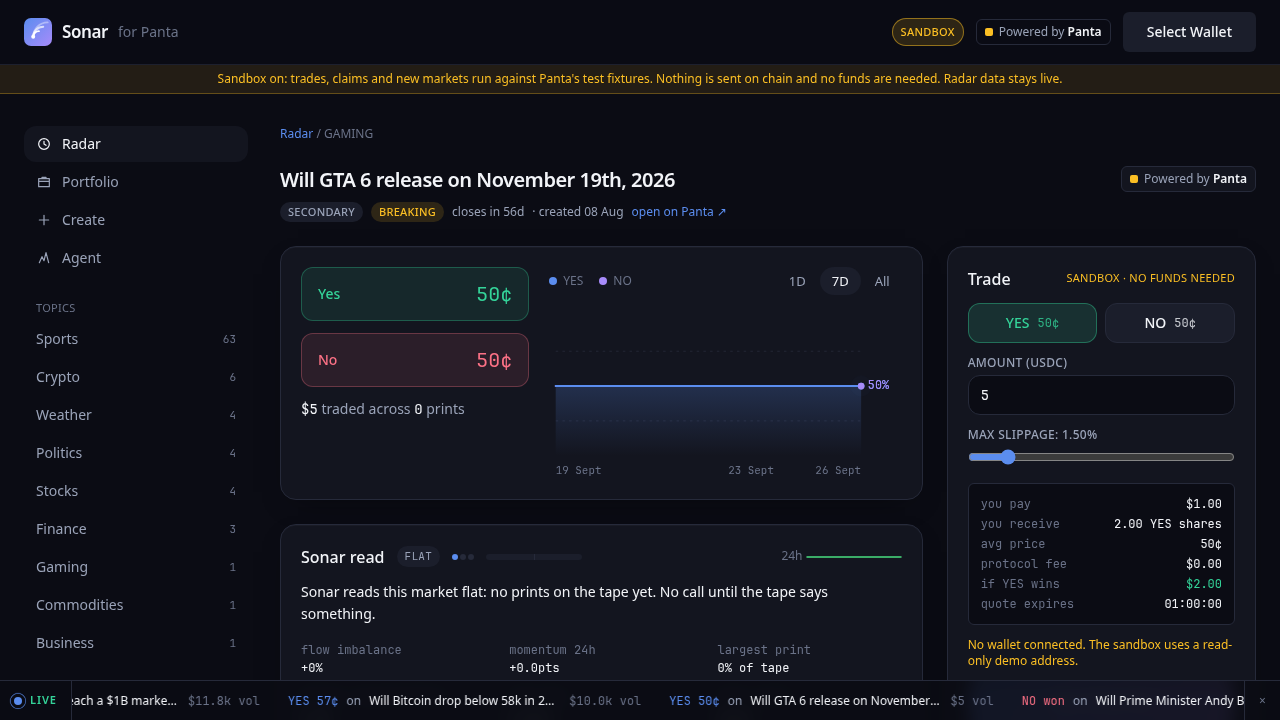
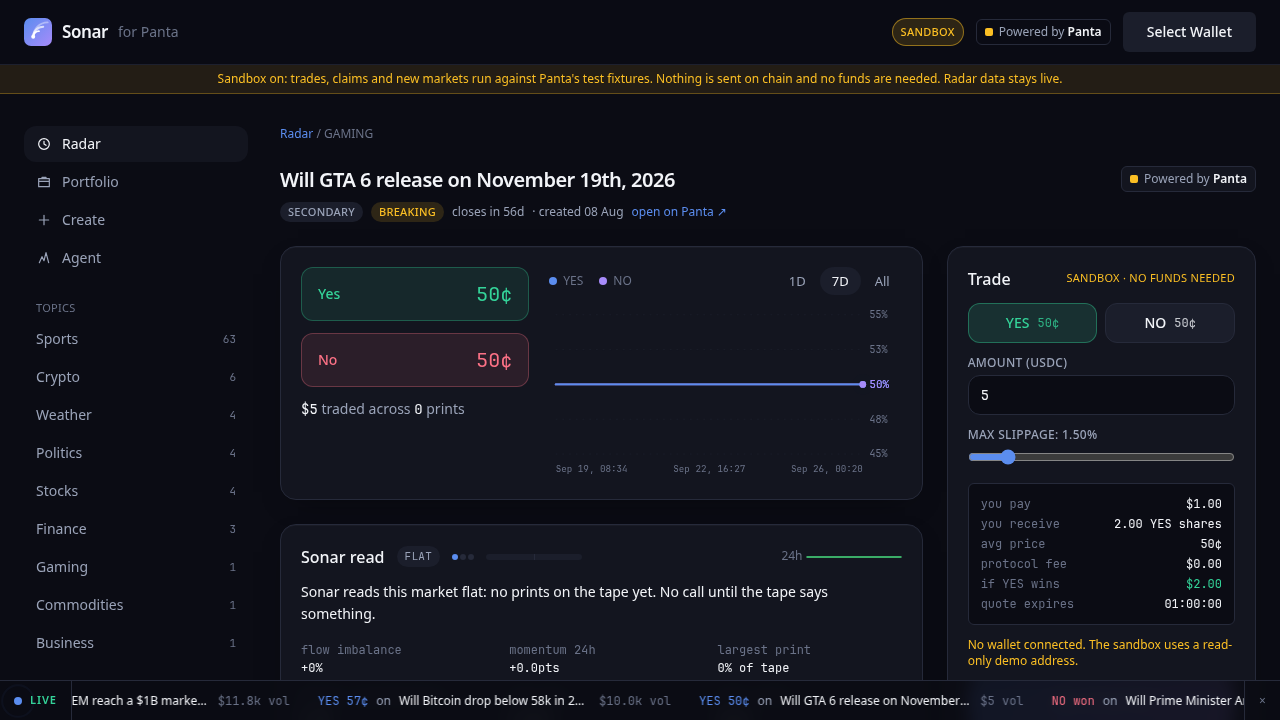
Panta-style chart, a Nigeria desk on the Radar, and feedback item 16
Chart: curved lines through the snapshots, a y range that hugs the data
with Panta-style percentage labels on the right, darker dashed guides,
dated x labels at the ends and the middle, and tick labels that step
aside for the end-point labels.

Radar: a Nigeria desk card that lists every market about Nigeria the API
exposes (found by the words a Nigerian would search for), showing how
resolved ones settled, and pointing to Create when there is nothing open.

The partner API turns out not to list P2P or region-tagged markets, and
ignores region= and unknown categories; recorded as feedback item 16 and
the category fan-out kept to the nine that return rows.

diff --git a/src/components/PriceChart.tsx b/src/components/PriceChart.tsx
@@ -7,7 +7,7 @@ import type { Snapshot } from '@/lib/types';
 export function PriceChart({ snaps, height = 220, className = '', live = false }: { snaps: Snapshot[]; height?: number; className?: string; live?: boolean }) {
   const pts = snaps.filter((s) => s.yesPrice !== null).map((s) => ({ t: s.ts, y: s.yesPrice as number }));
   // 420 wide: the chart sits in a column about that wide on desktop, so text renders near 1:1
-  const W = 420, H = height, padR = 48, padL = 8, padT = 16, padB = 28;
+  const W = 420, H = height, padR = 46, padL = 8, padT = 14, padB = 30;
   if (pts.length < 2) {
     return (
       <div className={`flex items-center justify-center rounded-xl border border-dashed border-line text-center text-xs text-fog-2 ${className}`} style={{ height }}>
@@ -16,34 +16,52 @@ export function PriceChart({ snaps, height = 220, className = '', live = false }
     );
   }
   const t0 = pts[0].t, t1 = pts[pts.length - 1].t || t0 + 1;
+  // y range hugs the data like Panta's chart: both lines, a little air, never past 0 or 100
+  const vals = pts.flatMap((p) => [p.y, 1 - p.y]);
+  let lo = Math.min(...vals), hi = Math.max(...vals);
+  const air = Math.max(0.04, (hi - lo) * 0.25);
+  lo = Math.max(0, lo - air); hi = Math.min(1, hi + air);
+  if (hi - lo < 0.1) { const mid = (hi + lo) / 2; lo = Math.max(0, mid - 0.05); hi = Math.min(1, mid + 0.05); }
   const x = (t: number) => padL + ((t - t0) / (t1 - t0 || 1)) * (W - padL - padR);
-  const y = (p: number) => padT + (1 - p) * (H - padT - padB);
-  const path = (f: (p: number) => number) => pts.map((p, i) => `${i ? 'L' : 'M'}${x(p.t).toFixed(1)},${y(f(p.y)).toFixed(1)}`).join(' ');
-  const yes = path((p) => p), no = path((p) => 1 - p);
+  const y = (p: number) => padT + (1 - (p - lo) / (hi - lo)) * (H - padT - padB);
+  // a soft curve through the points (Catmull-Rom converted to cubic beziers)
+  const curve = (f: (p: number) => number) => {
+    const P = pts.map((p) => ({ x: x(p.t), y: y(f(p.y)) }));
+    if (P.length === 2) return `M${P[0].x.toFixed(1)},${P[0].y.toFixed(1)} L${P[1].x.toFixed(1)},${P[1].y.toFixed(1)}`;
+    let d = `M${P[0].x.toFixed(1)},${P[0].y.toFixed(1)}`;
+    for (let i = 0; i < P.length - 1; i++) {
+      const p0 = P[i - 1] ?? P[i], p1 = P[i], p2 = P[i + 1], p3 = P[i + 2] ?? p2;
+      const c1x = p1.x + (p2.x - p0.x) / 6, c1y = p1.y + (p2.y - p0.y) / 6;
+      const c2x = p2.x - (p3.x - p1.x) / 6, c2y = p2.y - (p3.y - p1.y) / 6;
+      d += ` C${c1x.toFixed(1)},${c1y.toFixed(1)} ${c2x.toFixed(1)},${c2y.toFixed(1)} ${p2.x.toFixed(1)},${p2.y.toFixed(1)}`;
+    }
+    return d;
+  };
+  const yes = curve((p) => p), no = curve((p) => 1 - p);
   const last = pts[pts.length - 1];
-  const fmt = (t: number) => new Date(t * 1000).toLocaleDateString('en-GB', { day: 'numeric', month: 'short' });
-  const tm = (t0 + t1) / 2;
-  const mid = pts.reduce((best, p) => (Math.abs(p.t - tm) < Math.abs(best.t - tm) ? p : best), pts[0]);
-  const xs = (t1 - t0) > 3 * 86400 ? [pts[0], mid, last] : [pts[0], last];
+  const ticks = [0, 0.25, 0.5, 0.75, 1].map((k) => lo + (hi - lo) * k);
+  const fmt = (t: number) => { const d = new Date(t * 1000); return `${d.toLocaleDateString('en-US', { month: 'short', day: 'numeric' })}, ${d.toLocaleTimeString('en-GB', { hour: '2-digit', minute: '2-digit', hour12: false })}`; };
+  // x labels sit at the chart's ends and its exact middle, so they never crowd each other
+  const xs = (t1 - t0) > 2 * 3600 ? [t0, (t0 + t1) / 2, t1] : [t0, t1];
+  // a tick label that would sit under an end-point label gets out of its way
+  const clear = (g: number) => Math.abs(y(g) - y(last.y)) > 11 && Math.abs(y(g) - y(1 - last.y)) > 11;
   return (
     <svg viewBox={`0 0 ${W} ${H}`} className={`h-auto w-full ${className}`} role="img" aria-label={`YES ${Math.round(pts[0].y * 100)}% to ${Math.round(last.y * 100)}%`}>
-      <defs>
-        <linearGradient id="yes-fill" x1="0" y1="0" x2="0" y2="1">
-          <stop offset="0" stopColor="#5b8def" stopOpacity="0.22" />
-          <stop offset="1" stopColor="#5b8def" stopOpacity="0" />
-        </linearGradient>
-      </defs>
-      {[0.25, 0.5, 0.75].map((g) => <line key={g} x1={padL} x2={W - padR} y1={y(g)} y2={y(g)} stroke="#262a3a" strokeDasharray="3 5" />)}
-      <path d={`${yes} L${x(last.t).toFixed(1)},${y(0)} L${x(pts[0].t).toFixed(1)},${y(0)} Z`} fill="url(#yes-fill)" />
+      {ticks.map((g) => (
+        <g key={g}>
+          <line x1={padL} x2={W - padR} y1={y(g)} y2={y(g)} stroke="#1c1f2b" strokeDasharray="2 6" />
+          {clear(g) && <text x={W - padR + 8} y={y(g) + 4} fontSize="12" fill="#6a7288" fontFamily="var(--font-mono)">{Math.round(g * 100)}%</text>}
+        </g>
+      ))}
       <path d={no} fill="none" stroke="#a78bfa" strokeWidth="2.25" strokeLinejoin="round" strokeLinecap="round" className={live ? 'chart-line' : ''} />
       <path d={yes} fill="none" stroke="#5b8def" strokeWidth="2.25" strokeLinejoin="round" strokeLinecap="round" className={live ? 'chart-line' : ''} />
       {live && <circle cx={x(last.t)} cy={y(last.y)} r="4" fill="#5b8def" className="chart-pulse" />}
       <circle cx={x(last.t)} cy={y(last.y)} r="4" fill="#5b8def" />
       <circle cx={x(last.t)} cy={y(1 - last.y)} r="4" fill="#a78bfa" />
-      <text x={x(last.t) + 8} y={y(last.y) + 4} fontSize="14" fontWeight="600" fill="#5b8def" fontFamily="var(--font-mono)">{Math.round(last.y * 100)}%</text>
-      <text x={x(last.t) + 8} y={y(1 - last.y) + 4} fontSize="14" fontWeight="600" fill="#a78bfa" fontFamily="var(--font-mono)">{Math.round((1 - last.y) * 100)}%</text>
-      {xs.map((p, i) => (
-        <text key={i} x={x(p.t)} y={H - 6} fontSize="13" fill="#6a7288" textAnchor={i === 0 ? 'start' : i === xs.length - 1 ? 'end' : 'middle'} fontFamily="var(--font-mono)">{fmt(p.t)}</text>
+      <text x={x(last.t) + 8} y={y(last.y) + 4} fontSize="13" fontWeight="600" fill="#5b8def" fontFamily="var(--font-mono)">{Math.round(last.y * 100)}%</text>
+      <text x={x(last.t) + 8} y={y(1 - last.y) + 4} fontSize="13" fontWeight="600" fill="#a78bfa" fontFamily="var(--font-mono)">{Math.round((1 - last.y) * 100)}%</text>
+      {xs.map((t, i) => (
+        <text key={i} x={x(t)} y={H - 8} fontSize="11" fill="#6a7288" textAnchor={i === 0 ? 'start' : i === xs.length - 1 ? 'end' : 'middle'} fontFamily="var(--font-mono)">{fmt(t)}</text>
       ))}
     </svg>
   );

diff --git a/src/app/(app)/page.tsx b/src/app/(app)/page.tsx
@@ -32,6 +32,9 @@ export default async function RadarPage({ searchParams }: { searchParams?: { top
   const byTopic = new Map<string, number>();
   for (const m of open) { const k = (m.detail.category || 'other').toLowerCase(); byTopic.set(k, (byTopic.get(k) ?? 0) + vol(m)); }
   const hot = [...byTopic.entries()].sort((a, b) => b[1] - a[1]).slice(0, 4);
+  // anything about Nigeria, open or resolved, by the words a Nigerian would search for
+  const NG = /nigeria|naira|\bcbn\b|\bngx\b|super eagles|dangote|lagos|abuja|tinubu|\bnbs\b|\bmpr\b|bbnaija|afrobeats|burna|wizkid|davido|nnpc|\bpms\b/i;
+  const naija = markets.filter((m) => NG.test(q(m))).sort((a, b) => Number(a.detail.phase === 'resolved') - Number(b.detail.phase === 'resolved'));
 
   const line = !radar
     ? 'The radar has not run yet.'
@@ -120,6 +123,26 @@ export default async function RadarPage({ searchParams }: { searchParams?: { top
                   </li>
                 ))}
               </ol>
+            )}
+          </section>
+          <section className="card p-5">
+            <h2 className="mb-1 flex items-center gap-2 text-sm font-semibold"><span aria-hidden>🇳🇬</span> Nigeria desk</h2>
+            {naija.length > 0 ? (
+              <ol className="mt-2 space-y-2.5">
+                {naija.slice(0, 4).map((m) => (
+                  <li key={m.detail.marketId} className="flex items-start gap-3 text-sm">
+                    <Link href={`/market/${m.detail.marketId}`} className="min-w-0 flex-1 leading-snug text-paper no-underline hover:underline">{q(m)}</Link>
+                    {m.detail.phase === 'resolved'
+                      ? <span className={`mono shrink-0 text-xs ${m.detail.onChain?.yesWins ? 'text-yes' : 'text-no'}`}>{m.detail.onChain?.yesWins ? 'YES won' : 'NO won'}</span>
+                      : <span className="mono shrink-0 text-xs text-yes">{Math.round((m.yesPrice ?? 0.5) * 100)}%</span>}
+                  </li>
+                ))}
+              </ol>
+            ) : (
+              <>
+                <p className="text-sm leading-relaxed text-fog">Panta&apos;s public API lists no market about Nigeria yet: nothing on the CBN, the naira, inflation, the NGX or the Super Eagles. The first creator to list one earns a share of every trade it attracts.</p>
+                <Link href="/create" className="btn mt-3 w-full">Create the first Nigerian market</Link>
+              </>
             )}
           </section>
           {bt && bt.calls > 0 && (

diff --git a/src/lib/panta.ts b/src/lib/panta.ts
@@ -91,6 +91,8 @@ export async function listMarkets(p: ListParams = {}, opts?: CallOpts) {
  * so we widen coverage by fanning out over status × category and de-duplicating.
  */
 export async function listOpenMarkets(opts?: CallOpts, onError?: (msg: string) => void): Promise<MarketRow[]> {
+  // each known category returns a different 50-row slice; unknown categories (weather, gaming, stocks…) and the
+  // region filter return nothing, and P2P markets are absent altogether (feedback item 16), so this is the reachable set
   const cats = ['', 'sports', 'crypto', 'politics', 'entertainment', 'finance', 'science', 'world', 'other'];
   const seen = new Map<string, MarketRow>();
   const jobs: Promise<void>[] = [];

diff --git a/docs/PANTA-API-FEEDBACK.md b/docs/PANTA-API-FEEDBACK.md
@@ -33,3 +33,6 @@ Everything below was reproduced with a `pk_live_` key unless stated.
 13. **`category` is `sports` on most non-sport markets** — of 113 detail rows scanned, 74 carry `category: "sports"`, including "Will Bitcoin hit $65,000 in the next 10 minutes?", "Will it rain anywhere in London in the next 30 minutes?" and "Base Blockchain to announce airdrop rewards". It looks like breaking markets default to `sports` at creation. Category filters on `GET /markets/` are therefore unreliable for discovery.
 14. **Listing pages rotate between scans** — two `GET /markets/?status=secondary` scans four minutes apart returned different 50-row sets, and live markets ("Will GTA 6 release on November 19th, 2026?") disappeared from the listing while still `isActive` on chain. Integrators must keep their own registry of ids; a stable sort (`createdAt desc`) plus a working cursor would fix both this and item 2.
 15. **`GET /markets/{id}/` intermittently returns a stripped row** — for a resolved market the same call returns, at different moments, either the full row (`title`, `resolutionRule`, `onChain.*`, `phase: "resolved"`) or a skeleton with `title: ""`, `onChain: null` and `phase: "secondary"`, with HTTP 200 both times. In one scan 33 of 113 markets came back stripped. It looks like a cache miss path that returns the catalog row without the chain lookup. A 5xx, or a `partial: true` flag, would let clients retry instead of trusting the skeleton.
+
+## Added 26 September 2026
+16. **P2P and region-tagged markets are not reachable through the partner API.** panta.market/dashboard shows "Will Dangote Refinery be valued at over $60 billion before March 31, 2027?" (FINANCE, P2P) as the featured market, but no combination of `GET /markets/` parameters returns it: `status=primary|secondary` with every category, `marketType=p2p`, `type=p2p`, `search=`, `q=`, `featured=true`, `region=Nigeria|Africa|NG` all return the same Global slices (the region filter is ignored: every row still says `region: "Global"`). Statuses other than `primary`/`secondary` return empty, as do categories outside the nine the docs name (`weather`, `gaming`, `stocks`, `commodities`, `business`, `pop-culture`, `macroeconomics` all return 0 even though detail rows carry those categories). An integrator building a country desk cannot find the country's markets. Suggest: expose P2P markets in the listing (or a `type=p2p` filter), honour `region=`, and accept every category the detail rows use.
